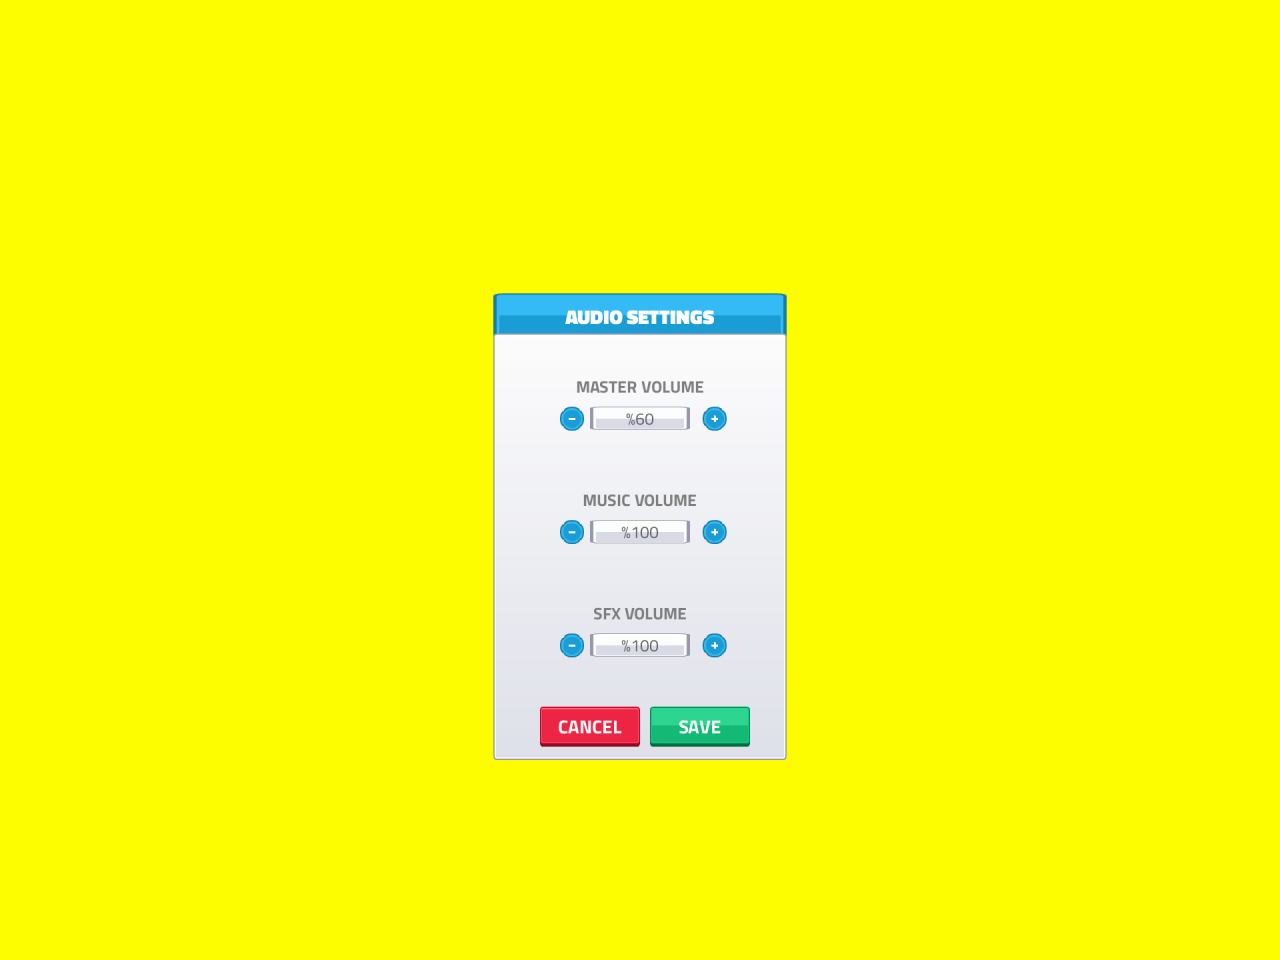
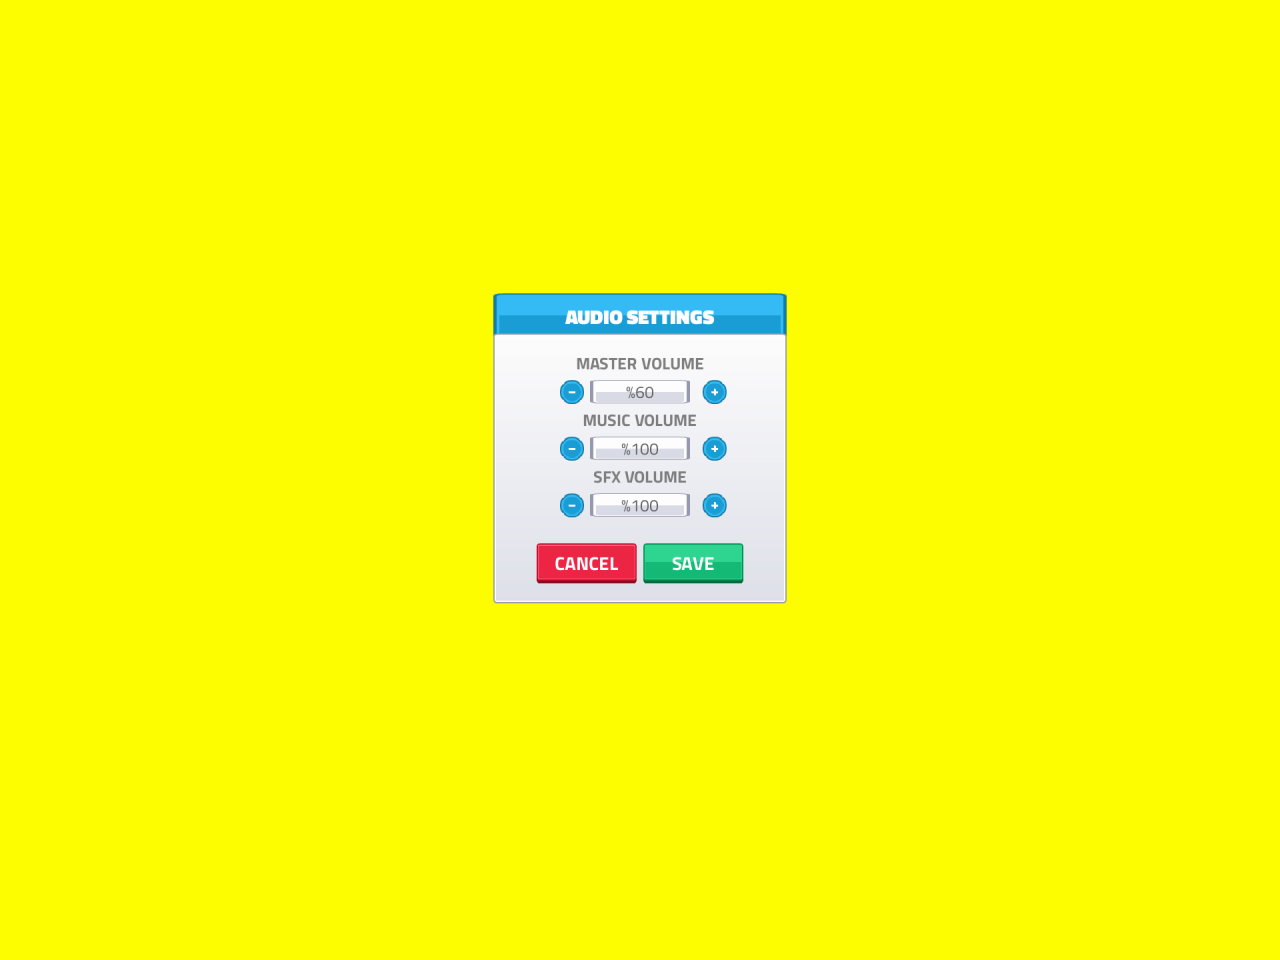
fix: Center and recolor the settings back buttons, tighten the AUDIO page
Closes #60

Changed region(s): [[0.375, 0.375, 0.625, 0.8125]]

diff --git a/tests/test_ui_scale.py b/tests/test_ui_scale.py
@@ -203,3 +203,30 @@ def test_on_a_taller_canvas_the_layout_follows_the_canvas(scale):
     hud = game.panel_manager["game"]
     assert hud["game_panel"].rect.bottom == 1200 - round(15 * scale / 100)
     assert hud["expand_button"].rect.y - toolbar.y == 120
+
+
+BACK_BUTTONS = (
+    ("settings", "settings_panel", ("settings_back_button",)),
+    ("display_settings", "display_settings_panel", ("display_back_button",)),
+    # CANCEL and SAVE are a pair, centered together.
+    ("audio_settings", "audio_settings_panel", ("cancel_button", "save_button")),
+    ("game_settings", "game_settings_panel", ("game_settings_back_button",)),
+    ("credits", "credits_panel", ("credits_back_button",)),
+)
+
+
+@pytest.mark.parametrize("resolution", [(1280, 720), (1920, 1080)])
+@pytest.mark.parametrize("scale", UI_SCALES)
+def test_every_back_button_is_centered_on_its_page(resolution, scale):
+    game = started_game(resolution)
+    game.set_ui_scale(scale)
+
+    window = pygame.Rect((0, 0), game.size)
+    for panel, body_name, names in BACK_BUTTONS:
+        page = game.panel_manager[panel]
+        rects = [page[name].rect for name in names]
+        row = rects[0].unionall(rects[1:])
+        assert abs(row.centerx - window.centerx) <= 1, (panel, scale, row)
+        # The page's own panel is centered too, so they share one center line.
+        body = page[body_name].rect
+        assert abs(body.centerx - window.centerx) <= 1, (panel, scale, body)

diff --git a/docs/devlog/2026-11-10-credits-and-master-volume.md b/docs/devlog/2026-11-10-credits-and-master-volume.md
@@ -33,3 +33,21 @@ MASTER VOLUME control that scales the music and every sound effect.
 
 ![The CREDITS page, mid-scroll](img/46-47-credits.png)
 ![The AUDIO page with MASTER VOLUME at 60 %](img/46-47-audio.png)
+
+## Play-test follow-up
+
+The owner play-tested the PR and asked for layout changes:
+
+- **CREDITS:** the header plate now overlaps the body panel by 10 px, like the other pages, and the
+  red GO BACK button sits inside the panel at the bottom. The scrolling area is shorter to make room.
+- **Every settings page:** SETTINGS, DISPLAY, AUDIO and GAME back buttons are the same red button,
+  placed with `position: [CENTER, y]`. The old hard-coded x of 810 put the 315 px wide buttons about
+  8 px off-center ([#60](https://github.com/vectorviolet/highrise/issues/60)); CANCEL and SAVE on
+  AUDIO had the same offset as a pair. A test checks every one at every UI scale and at two window sizes.
+- **AUDIO spacing:** rows now use the DISPLAY page's 85 px step and the header gap, and the panel is
+  405 px high instead of 640. Without music the rows close up under a 320 px panel.
+
+![The CREDITS page after the follow-up](img/46-47-credits.png)
+![The AUDIO page after the follow-up](img/46-47-audio.png)
+![The DISPLAY page, for comparison](img/46-47-display.png)
+![The SETTINGS page with its red GO BACK](img/46-47-settings.png)

diff --git a/CHANGELOG.md b/CHANGELOG.md
@@ -31,6 +31,8 @@ follow [Semantic Versioning](https://semver.org/spec/v2.0.0.html).
 
 ### Fixed
 
+- The GO BACK buttons on the settings pages are centered (they sat about 8 px to the right) and
+  red like the other panels; the AUDIO page's rows are spaced like the DISPLAY page's.
 - Moves, building, selling and NEXT AGE wait until buildings stop sliding and merging, so a merge
   can no longer leave two buildings stacked on one tile. Saving mid-merge saves the finished merge,
   and selling from an info panel whose building just merged no longer crashes the game.
